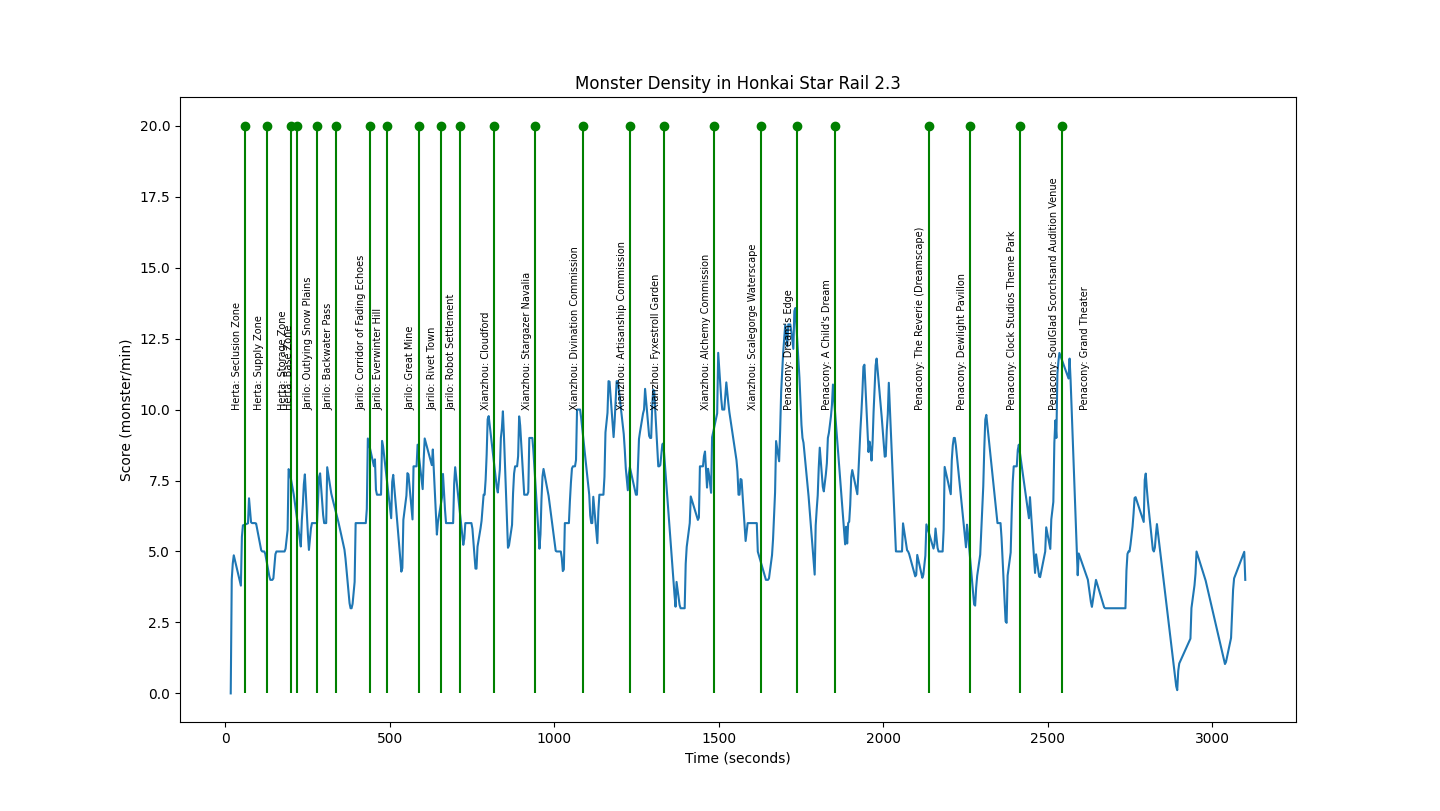
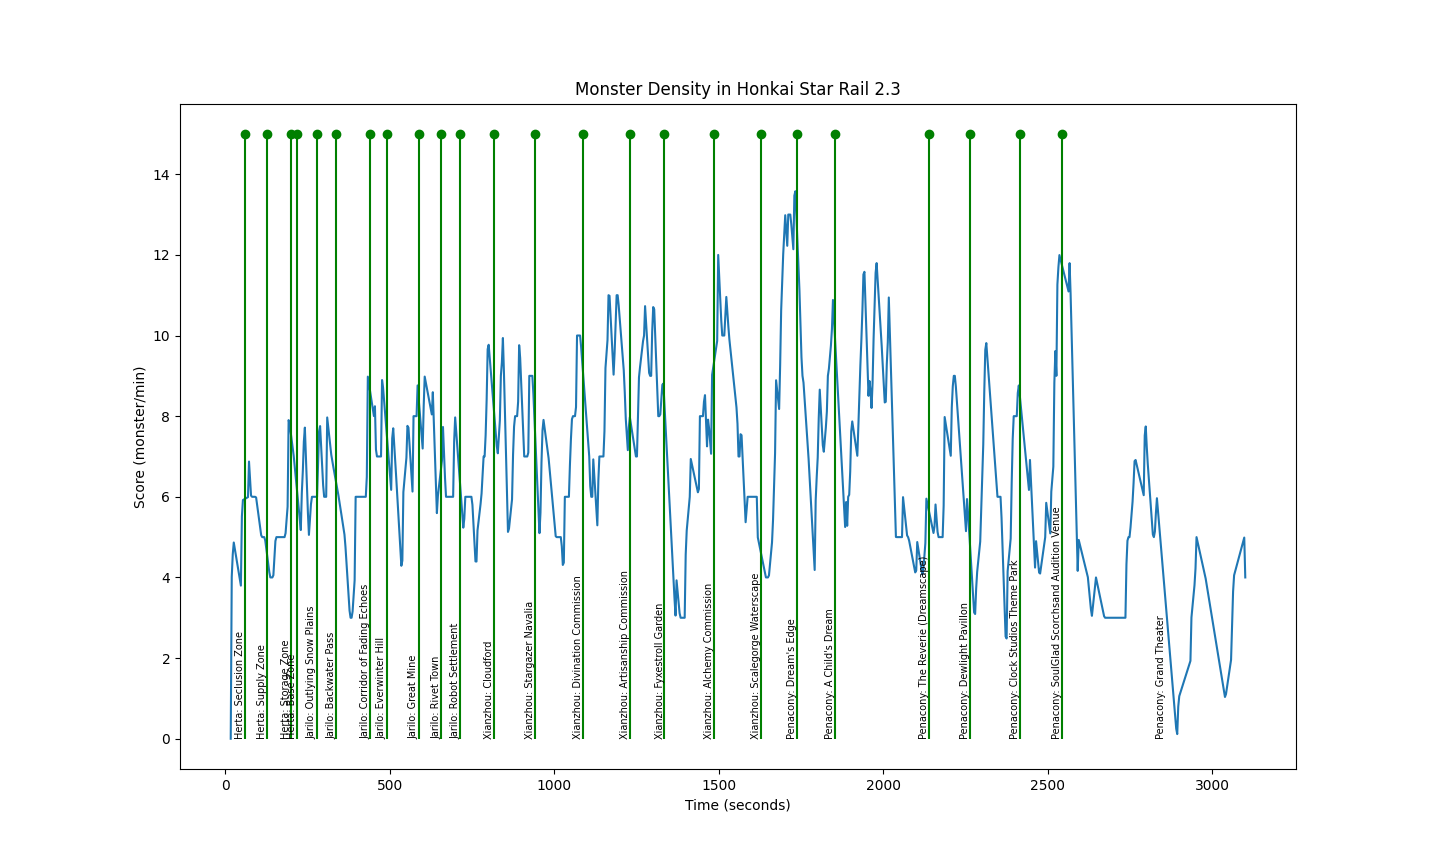
[Clean] Map labels

diff --git a/plotter.py b/plotter.py
@@ -57,13 +57,13 @@ if __name__ == '__main__':
 
         # Map switch markers
         mx = [float(x) for x in data['map_time']]
-        my = [20 for i in range(24)]
+        my = [15 for i in range(24)]
         ax.stem(mx, my, 'g', basefmt=" ")
         mi = 0
         for xi, yi in zip(mx, my):
-            ax.text(xi-25, yi-10, f'{MAPS[mi]}', fontsize=7, ha='center', va='bottom', rotation=90)
+            ax.text(xi-15, 0, f'{MAPS[mi]}', fontsize=7, ha='center', va='bottom', rotation=90)
             mi += 1
-        ax.text(mx[-1]+70, my[-1]-10, f'{MAPS[-1]}', fontsize=7, ha='center', va='bottom', rotation=90)
+        ax.text(mx[-1]+300, 0, f'{MAPS[-1]}', fontsize=7, ha='center', va='bottom', rotation=90)
 
         ax.set_xlabel('Time (seconds)')
         ax.set_ylabel('Score (monster/min)')
